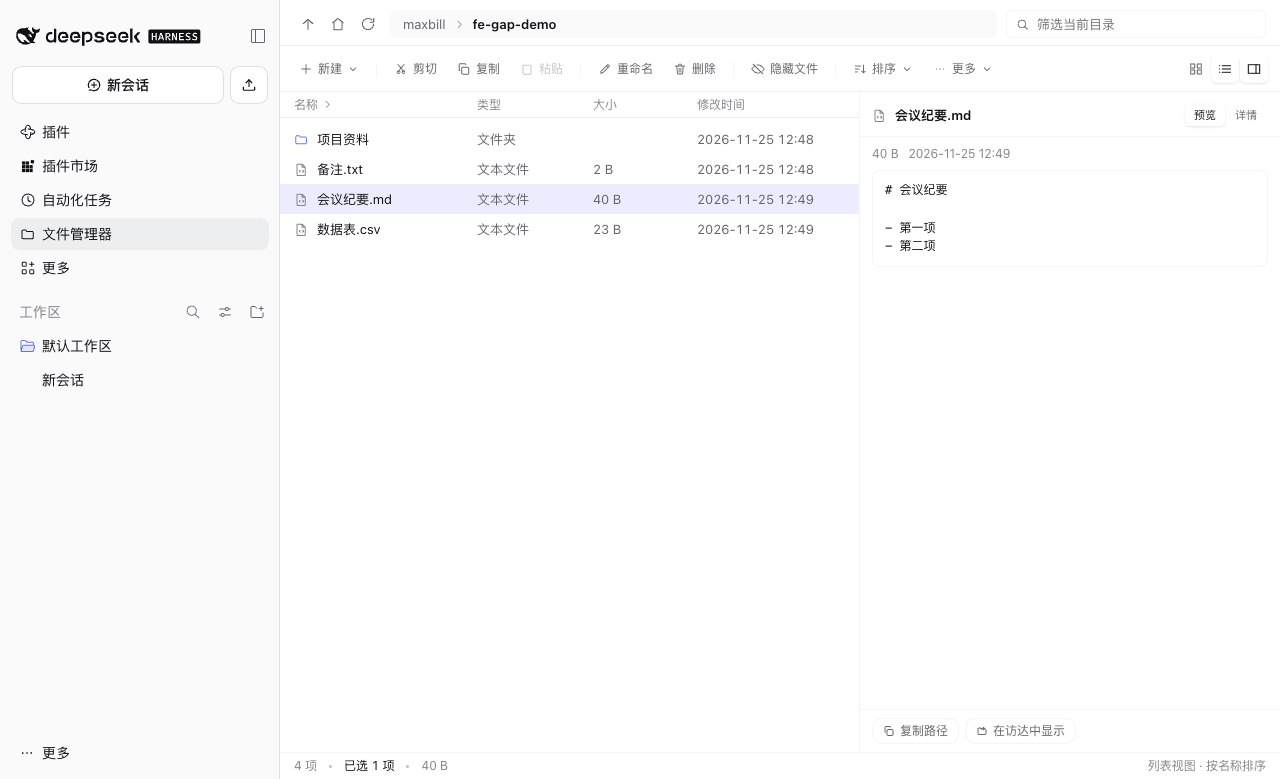
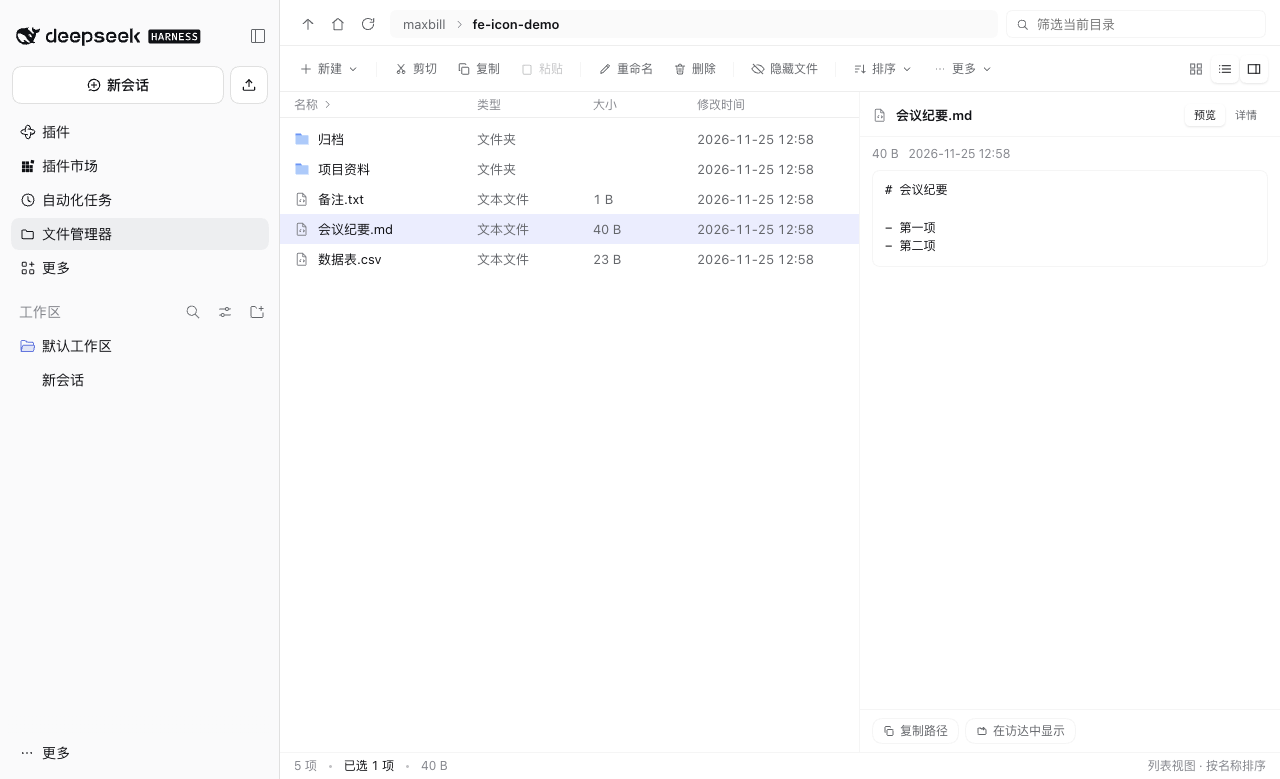
feat: accept supplied artwork, and use it for folders
The icon factory only knew one form: a 24-grid stroke outline. It now also
renders filled artwork - { viewBox, parts: [{ d, fill }] } - so an SVG from
elsewhere can drop in without being redrawn as a stroke.

- folderFilled is the supplied 1024-grid two-tone folder (#1495FF / #8FCDFF),
  used in the grid at 44px, in rows and the details header at 16px
- the chrome keeps the stroke folder: sidebar entry, context-menu entries and
  the 新建 popup still draw the 24-grid outline
- row/pane icons go 15 -> 16px so the filled artwork reads at row scale
- tests unchanged in behaviour; docs screenshots re-shot with the new icon

diff --git a/lib/client.js b/lib/client.js
@@ -296,22 +296,41 @@ window.__ModuleLoader__.load({
 `;
 
     /**
-     * Build one stroked icon element.
-     * @param {Array} shapes - child elements
-     * @param {number} size - square edge in pixels
+     * Build one icon element. Two kinds of artwork are supported:
+     *   - a 24x24 stroke outline: an array of path data strings
+     *   - supplied artwork: { viewBox, parts: [{ d, fill }] }, every part painted
+     * @param {Array|object} artwork - path list, or { viewBox, parts }
+     * @param {number|string} size - square edge in pixels ("100%" fills the box)
      * @returns {object} svg element
      */
-    function icon(shapes, size) {
+    function icon(artwork, size) {
+      if (Array.isArray(artwork)) {
+        return h("svg", {
+          width: size, height: size, viewBox: "0 0 24 24", fill: "none",
+          stroke: "currentColor", strokeWidth: 1.6, strokeLinecap: "round", strokeLinejoin: "round",
+          "aria-hidden": "true", focusable: "false",
+        }, artwork.map(function (d, index) { return h("path", { key: index, d: d }); }));
+      }
       return h("svg", {
-        width: size, height: size, viewBox: "0 0 24 24", fill: "none",
-        stroke: "currentColor", strokeWidth: 1.6, strokeLinecap: "round", strokeLinejoin: "round",
+        width: size, height: size, viewBox: artwork.viewBox || "0 0 24 24",
+        fill: "none", stroke: "none",
         "aria-hidden": "true", focusable: "false",
-      }, shapes);
+      }, (artwork.parts || []).map(function (part, index) {
+        return h("path", { key: index, d: part.d, fill: part.fill || "currentColor" });
+      }));
     }
 
     /** Named icon shapes (arrays of SVG path data). */
     var SHAPES = {
       folder: ["M3 7.5A1.5 1.5 0 0 1 4.5 6h4l1.8 2.2h8.2A1.5 1.5 0 0 1 20 9.7v7.8A1.5 1.5 0 0 1 18.5 19h-14A1.5 1.5 0 0 1 3 17.5z"],
+      // Supplied artwork for the listing itself (1024 grid, two flat fills).
+      folderFilled: {
+        viewBox: "0 0 1024 1024",
+        parts: [
+          { d: "M133.4784 164.5568a41.472 41.472 0 0 0-42.0352 40.9088v613.0688c0 22.5792 18.7904 40.9088 42.0352 40.9088h757.0432a41.472 41.472 0 0 0 42.0352-40.9088V310.8352a41.472 41.472 0 0 0-42.0352-40.8576H512L406.8352 164.5568H133.4784z", fill: "#1495FF" },
+          { d: "M152.6272 270.1312c-33.9456 0-61.184 27.4944-61.184 61.44v488.8576c0 21.504 18.7904 39.0144 42.0352 39.0144h757.0432c23.1936 0 42.0352-17.4592 42.0352-39.0144V309.1456c0-21.504-18.7904-39.0144-42.0352-39.0144H152.576z", fill: "#8FCDFF" },
+        ],
+      },
       file: ["M6 3.5h7l5 5v12a1 1 0 0 1-1 1H6a1 1 0 0 1-1-1v-16a1 1 0 0 1 1-1z", "M13 3.5v5h5"],
       image: ["M6 3.5h7l5 5v12a1 1 0 0 1-1 1H6a1 1 0 0 1-1-1v-16a1 1 0 0 1 1-1z", "M13 3.5v5h5", "M8.5 17.5l3-3 2 2 2-2"],
       code: ["M6 3.5h7l5 5v12a1 1 0 0 1-1 1H6a1 1 0 0 1-1-1v-16a1 1 0 0 1 1-1z", "M13 3.5v5h5", "M10 13l-1.6 1.6L10 16.2", "M14 13l1.6 1.6L14 16.2"],
@@ -354,10 +373,7 @@ window.__ModuleLoader__.load({
      * @returns {object} svg element
      */
     function glyph(name, size) {
-      var paths = SHAPES[name] || SHAPES.file;
-      return icon(paths.map(function (d, index) {
-        return h("path", { key: index, d: d });
-      }), size);
+      return icon(SHAPES[name] || SHAPES.file, size);
     }
 
     /**
@@ -367,7 +383,7 @@ window.__ModuleLoader__.load({
      */
     function entryShape(entry) {
       if (!entry) return "file";
-      if (entry.dir) return "folder";
+      if (entry.dir) return "folderFilled";
       if (entry.kind === "image") return "image";
       if (entry.kind === "text") return "code";
       if (entry.kind === "pdf") return "pdf";
@@ -1497,7 +1513,7 @@ window.__ModuleLoader__.load({
             onContextMenu: function (event) { openRowMenu(event, entry); },
           },
             h("div", { className: "dfx-name" },
-              h("span", { className: "dfx-name-icon" + (entry.dir ? " dfx-name-icon--folder" : "") }, glyph(entryShape(entry), 15)),
+              h("span", { className: "dfx-name-icon" + (entry.dir ? " dfx-name-icon--folder" : "") }, glyph(entryShape(entry), 16)),
               h("span", { className: "dfx-name-text" + (entry.hidden ? " dfx-name-text--dim" : "") }, entry.name)),
             h("div", { className: "dfx-cell" }, kindLabel(entry)),
             h("div", { className: "dfx-cell" }, entry.dir ? "" : formatSize(entry.size)),
@@ -1522,7 +1538,7 @@ window.__ModuleLoader__.load({
           }, label);
         };
         return h("div", { className: "dfx-preview-head" },
-          h("span", { className: "dfx-name-icon" }, glyph(entry ? entryShape(entry) : "file", 15)),
+          h("span", { className: "dfx-name-icon" }, glyph(entry ? entryShape(entry) : "file", 16)),
           h("span", { className: "dfx-preview-title" }, entry ? entry.name : "详情"),
           h("div", { className: "dfx-panemode", role: "group", "aria-label": "右侧面板" },
             modeButton("preview", "预览", !!entry && entry.dir),

diff --git a/README.md b/README.md
@@ -58,6 +58,8 @@ Limits: 512 KB of text, 8 MB of image, 2000 entries per directory (the footer sa
 | `lib/client.js` | Browser half: a `window.__ModuleLoader__` factory module registering the sidebar icon and the `main` panel |
 | `cordis.patch.yml` | Bundle patch that inserts the `file-explorer` Loader entry |
 
+Icons are inline SVG: `SHAPES` accepts either a 24-grid stroke path list or `{ viewBox, parts: [{ d, fill }] }` filled artwork - the folder icon is the latter, scaled for both the 44px grid and the 16px row.
+
 ## Install
 
 The plugin mounts the standard DSH bundle way:

diff --git a/README.zh.md b/README.zh.md
@@ -58,6 +58,8 @@
 | `lib/client.js` | 浏览器端：`window.__ModuleLoader__` 工厂模块，注册左侧栏图标与 `main` 面板 |
 | `cordis.patch.yml` | Bundle patch，把 `file-explorer` 条目插入 Loader |
 
+图标是内联 SVG：`SHAPES` 既接受 24 网格的描边路径数组，也接受 `{ viewBox, parts: [{ d, fill }] }` 形式的填充图形（当前文件夹图标就是后者，按 44 / 16px 两档自适应缩放）。
+
 ## 安装
 
 插件按 DSH 的标准 bundle 方式挂载：
